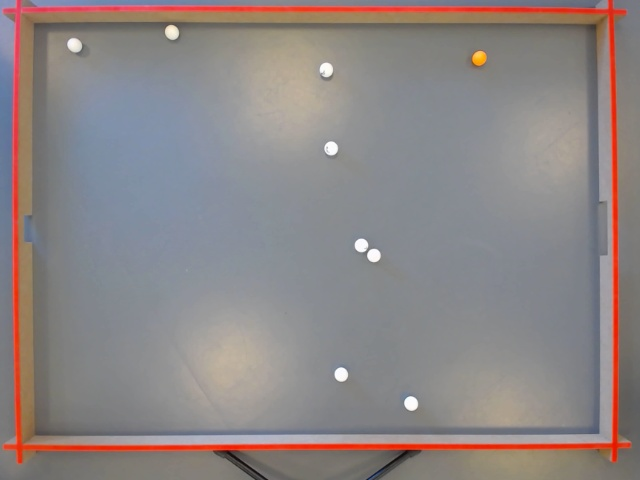
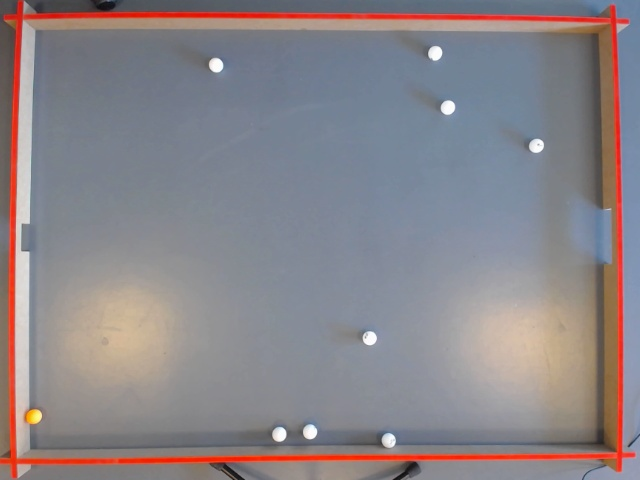
img recog update

diff --git a/ImFromPhoto.py b/ImFromPhoto.py
@@ -8,15 +8,9 @@ def imageRecognition(image):
         print("No image found")
     print(image[0][0])
 
-    img_hsv = cv.cvtColor(image, cv.COLOR_BGR2HSV)
-    gray = cv.cvtColor(image, cv.COLOR_BGR2GRAY)
-
     height, width = image.shape[:2]
 
     blank = np.zeros((height, width, 3), dtype='uint8')
-
-    lower_red = np.array([170, 50, 180])
-    upper_red = np.array([180, 255, 255])
 
     start = time.time()
 
@@ -30,14 +24,14 @@ def imageRecognition(image):
     blank[..., :][green_mask1 == 1] = (0, 255, 255)
 
     # Red color detection
-    red_mask = ((200 <= image[..., 2]) & (100 >= image[..., 1])).astype(np.uint8)
+    red_mask = ((195 <= image[..., 2]) & (100 >= image[..., 1])).astype(np.uint8)
     red_pixels += np.sum(red_mask)
     blank[..., 0][red_mask == 1] = 0
     blank[..., 1][red_mask == 1] = 0
     blank[..., 2][red_mask == 1] = 255
 
     # Orange color dectection
-    orange_mask = ((120 >= image[..., 0]) & (155 <= image[..., 1]) & (190 <= image[..., 2])).astype(np.uint8)
+    orange_mask = ((140 >= image[..., 0]) & (155 <= image[..., 1]) & (190 <= image[..., 2])).astype(np.uint8)
     blank[..., 0][orange_mask == 1] = 0
     blank[..., 1][orange_mask == 1] = 150
     blank[..., 2][orange_mask == 1] = 255
@@ -58,7 +52,7 @@ def imageRecognition(image):
 
     # 108 164 100
     # White color dectection
-    white_mask = ((200 <= image[..., 2]) & (200 <= image[..., 0]) & (195 <= image[..., 1])).astype(np.uint8)
+    white_mask = ((205 <= image[..., 2]) & (200 <= image[..., 0]) & (195 <= image[..., 1])).astype(np.uint8)
     white_pixels = np.sum(white_mask)
     blank[..., :][white_mask == 1] = (255, 255, 255)
 
@@ -73,7 +67,7 @@ def imageRecognition(image):
         param1=50,
         param2=13,
         minRadius=5,
-        maxRadius=9
+        maxRadius=7
     )
 
     detected_Robot = cv.HoughCircles(
@@ -124,7 +118,7 @@ def imageRecognition(image):
 
     thresh = cv.threshold(gray, 0, 150, cv.THRESH_BINARY_INV + cv.THRESH_OTSU)[1]
 
-    horizontal_kernel = cv.getStructuringElement(cv.MORPH_RECT, (1, 1))
+    horizontal_kernel = cv.getStructuringElement(cv.MORPH_RECT, (1, 10))
     detect_horizontal = cv.morphologyEx(thresh, cv.MORPH_OPEN, horizontal_kernel, iterations=2)
     cnts = cv.findContours(detect_horizontal, cv.RETR_EXTERNAL, cv.CHAIN_APPROX_SIMPLE)
     cnts = cnts[0] if len(cnts) == 2 else cnts[1]
@@ -140,7 +134,6 @@ def imageRecognition(image):
                 cY = int(M["m01"] / M["m00"])
 
             cv.circle(blank, (cX, cY), 5, (255, 0, 0), -1)
-
     end = time.time()
 
     time_for_transform = end - start

diff --git a/imageReader.py b/imageReader.py
@@ -10,7 +10,7 @@ while 1:
         break
     cv.imshow('Read picture', image)
     if cv.waitKey(1) & 0xFF == ord('q'):
-        cv.imwrite('Resources/Pictures/goal.jpg', image)
+        cv.imwrite('Resources/Pictures/Angle.jpg', image)
         break
 
 videoCapture.release()

diff --git a/VariousTests/imageRecognitionTest.py b/VariousTests/imageRecognitionTest.py
@@ -1,6 +1,6 @@
 import cv2 as cv
 import ImFromPhoto
 
-image = cv.imread('../Resources/Pictures/goal.jpg')
+image = cv.imread('../Resources/Pictures/Angle.jpg')
 
 ImFromPhoto.imageRecognition(image)
